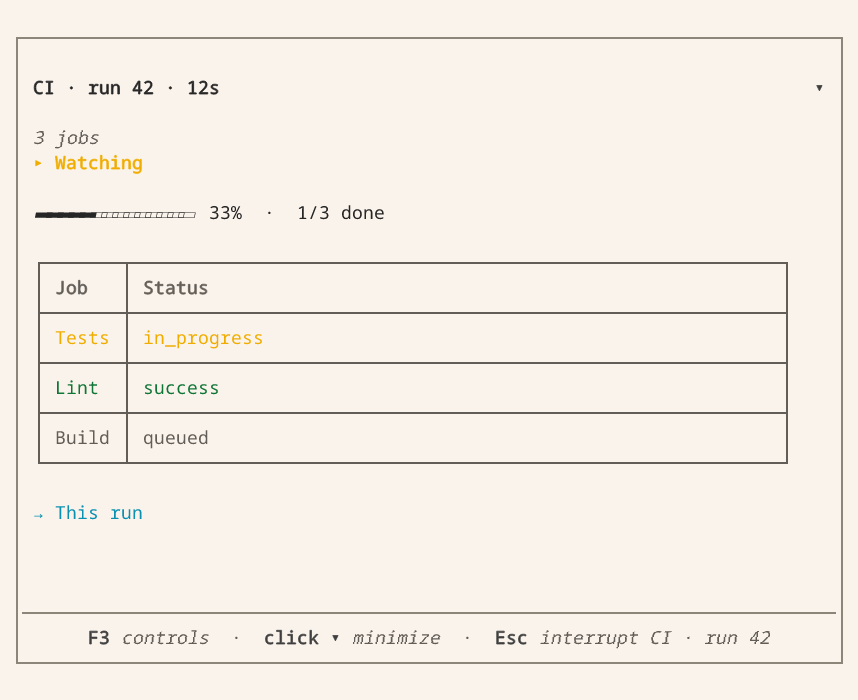
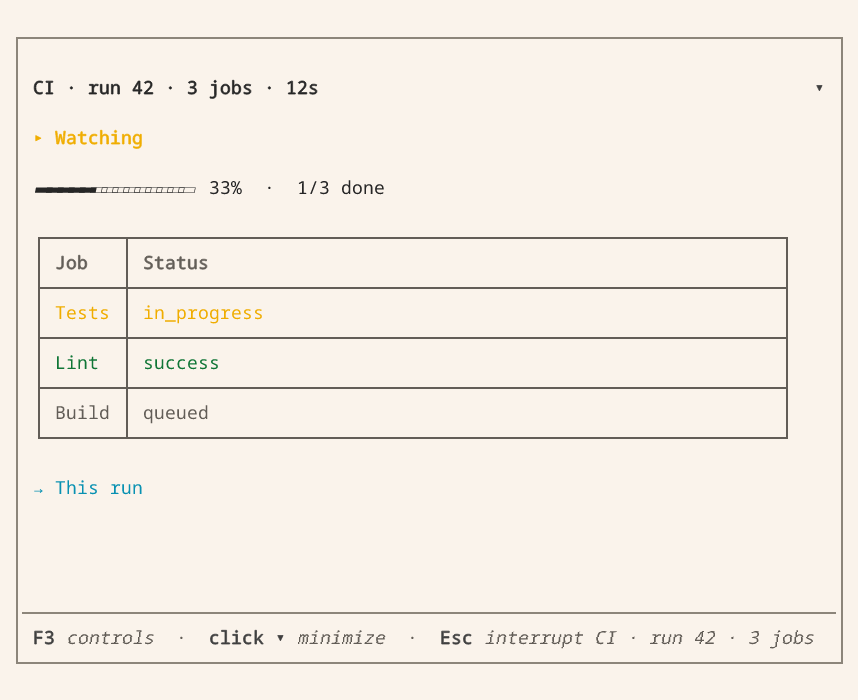
fix(docs): show CI job count in live view headers
Vis-Session: 1b56f123-5c52-4b88-ab5a-3ab8bc2dcc99

diff --git a/packages/vis-agent/tests/test_testing.py b/packages/vis-agent/tests/test_testing.py
@@ -209,6 +209,9 @@ def test_live_view_documentation_renders_terminal_jobs(monkeypatch):
     assert polled_at == [0.0, 5.0]
     assert len(waits) == 2
     assert result["summary"] == "Run result: success"
+    opened = recorder.said[0]["view"]
+    assert opened["title"] == "CI · run 1 · 1 jobs"
+    assert not opened.get("description")
     assert recorder.node("jobs")["rows"][0]["cells"] == ["Tests", "success"]
     assert recorder.node("progress")["done"] == 1
 

diff --git a/resources/vis-docs/live-views.md b/resources/vis-docs/live-views.md
@@ -53,7 +53,7 @@ def watch_run(run_id: int) -> dict:
     """Watch a GitHub Actions run; stopping the view does not cancel the run."""
     run = poll(run_id)
     with vis.live(
-        f"CI · run {run_id}",
+        f"CI · run {run_id} · {len(run['jobs'])} jobs",
         [
             vis.status("run", "Watching", tone="running"),
             vis.progress("progress"),
@@ -61,7 +61,6 @@ def watch_run(run_id: int) -> dict:
                                        vis.table_column("state", "Status")]),
             vis.link("links", links=[{"id": "run", "label": "This run", "target": run["url"]}]),
         ],
-        description=f"{len(run['jobs'])} jobs",
     ) as view:
         seen = {}
         counts = None
